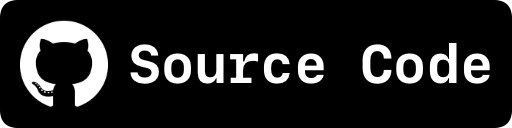
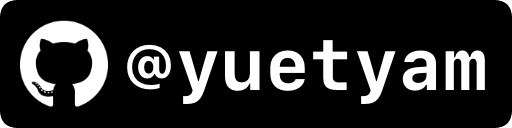
Update the GitHub badge

Changed region(s): [[0.25, 0.3125, 0.9688, 0.8125]]

diff --git a/about/index.html b/about/index.html
@@ -53,6 +53,22 @@
                         支持作者: <a href="../donate">捐贈贊助</a>
                 </p>
                 <br>
+                <br>
+                <p>
+                        <a href="https://www.instagram.com/jyutping_app" target="_blank">
+                                <img class="badge" src="../images/badge-instagram.png" alt="Instagram badge">
+                        </a>
+                </p>
+                <p>
+                        <a href="https://www.threads.net/@jyutping_app" target="_blank">
+                                <img class="badge" src="../images/badge-threads.png" alt="Threads badge">
+                        </a>
+                </p>
+                <p>
+                        <a href="https://x.com/JyutpingApp" target="_blank">
+                                <img class="badge" src="../images/badge-twitter.png" alt="X (formerly Twitter) badge">
+                        </a>
+                </p>
                 <p>
                         <a href="https://github.com/yuetyam" target="_blank">
                                 <img class="badge" src="../images/badge-github.png" alt="GitHub badge">
@@ -64,25 +80,11 @@
                         </a>
                 </p>
                 <p>
-                        <a href="https://x.com/JyutpingApp" target="_blank">
-                                <img class="badge" src="../images/badge-twitter.png" alt="X (formerly Twitter) badge">
-                        </a>
-                </p>
-                <p>
-                        <a href="https://www.threads.net/@jyutping_app" target="_blank">
-                                <img class="badge" src="../images/badge-threads.png" alt="Threads badge">
-                        </a>
-                </p>
-                <p>
-                        <a href="https://www.instagram.com/jyutping_app" target="_blank">
-                                <img class="badge" src="../images/badge-instagram.png" alt="Instagram badge">
-                        </a>
-                </p>
-                <p>
                         <a href="https://jq.qq.com/?k=4PR17m3t" target="_blank">
                                 <img class="badge" src="../images/badge-qq.png" alt="QQ badge">
                         </a>
                 </p>
+                <br>
         </div>
 </body>
 
